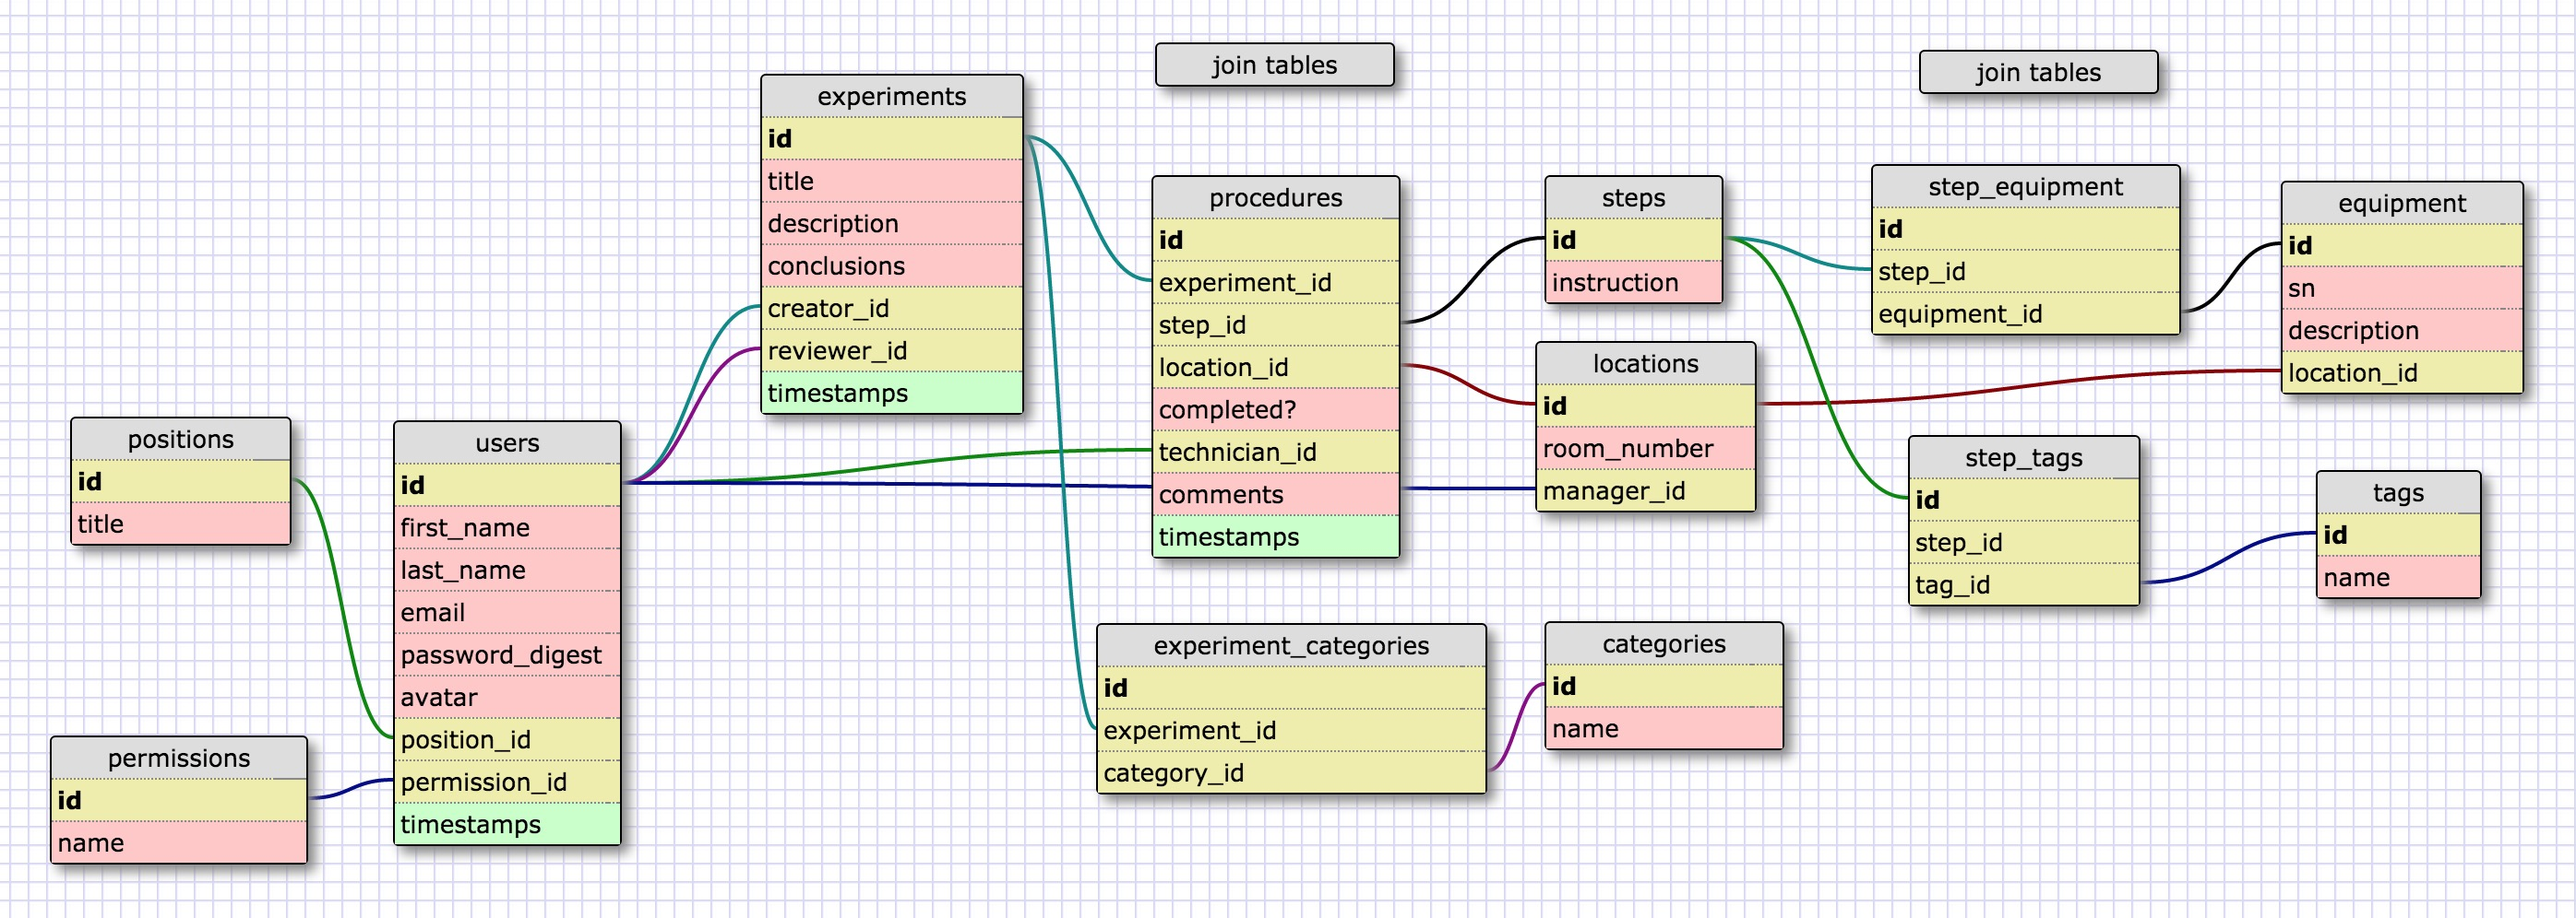
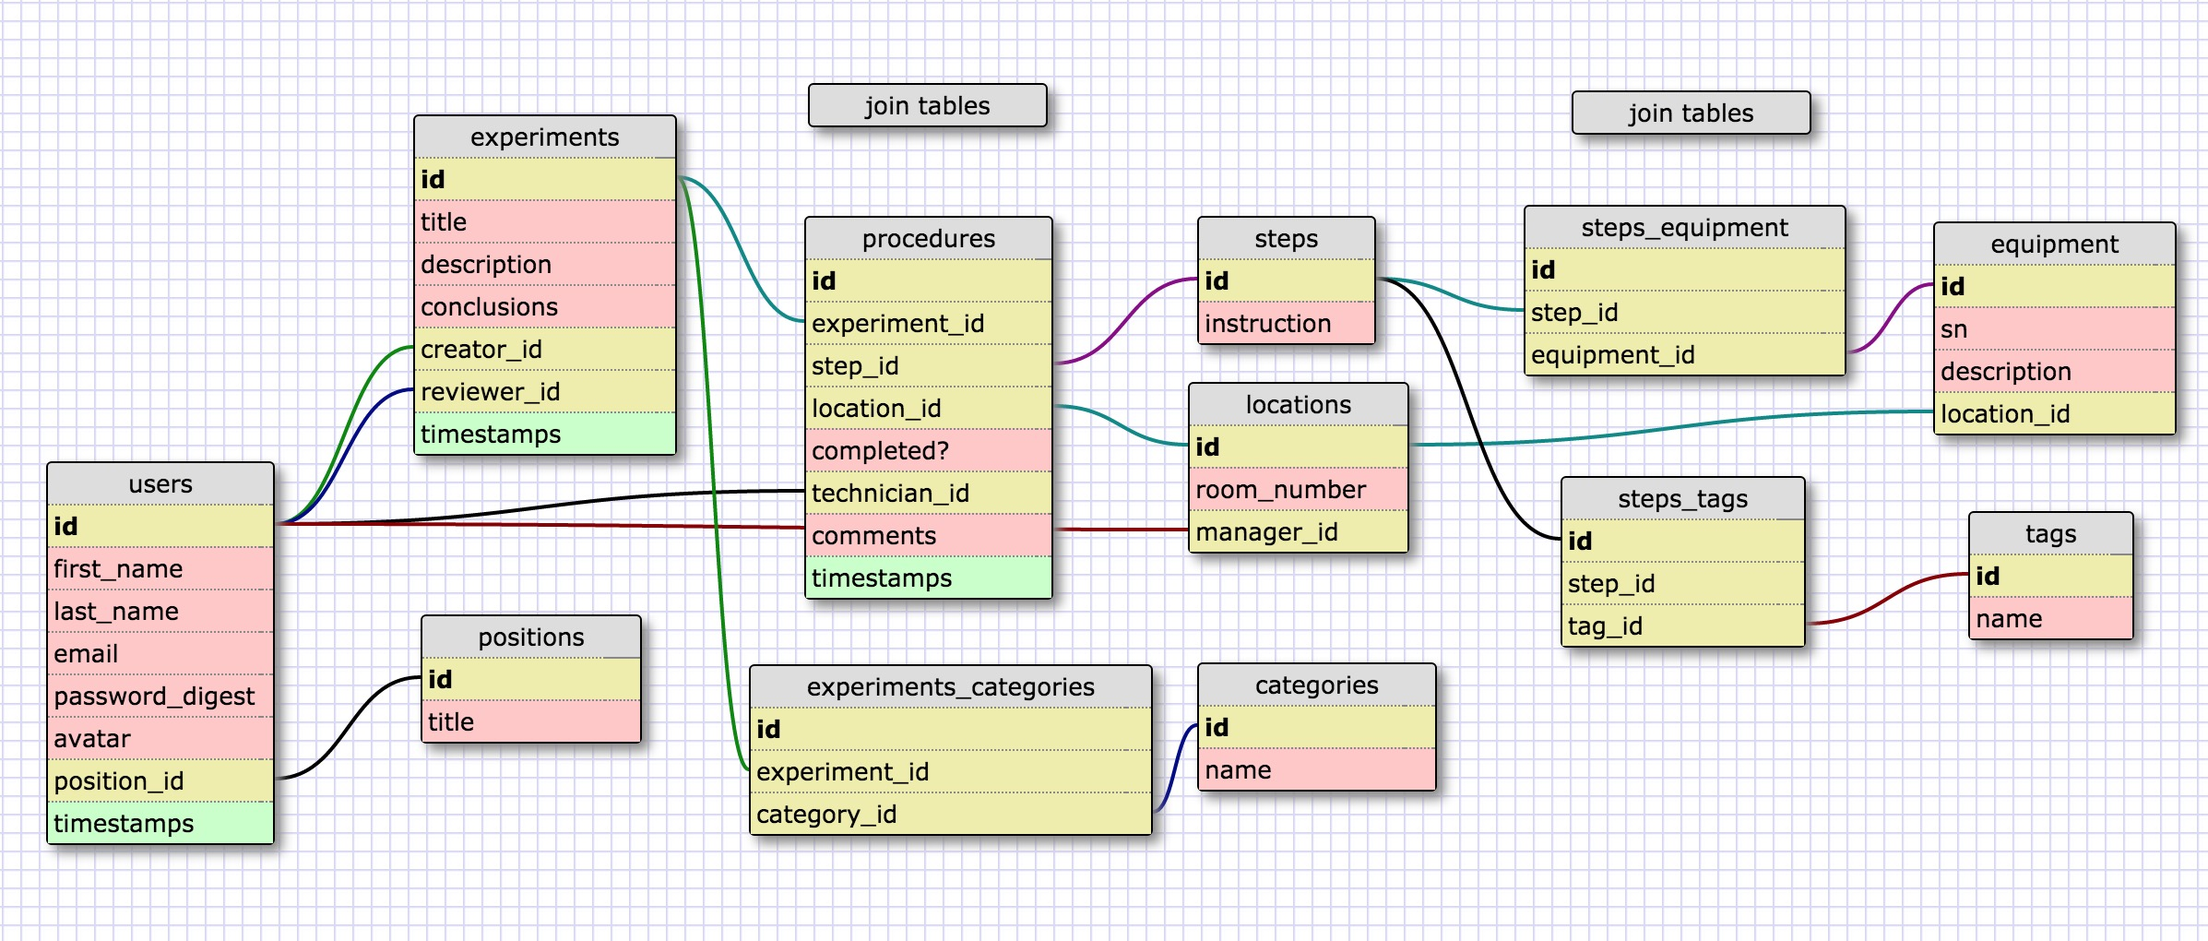
update readme and schema, working out app design

diff --git a/README.md b/README.md
@@ -1,6 +1,45 @@
 # diatomic
-A simple app in Rails and JavaScript for creating digital lab experiment notes.
+A simple app in Rails and JavaScript for creating digital lab notes.
+
+## App Design
 
 ### Schema
 ![Database schema](diatomic_schema.jpg)
 [Schema XML](db_schema.xml)
+
+### Models
+User
+  - has_many created_experiments
+  - has_many reviewed_experiments
+  - has_many completed_experiment_steps
+  - has_many rooms_managed
+
+Position
+
+Experiment
+  - has_many steps, through procedures
+  - has_many categories, or, has and belongs to many categories
+  - has_many locations, through procedures
+
+Procedure
+  - join table between Experiment and Step
+
+Step
+  - uses many equipment
+  - has_many tags, or, has and belongs to many tags
+
+Location
+  - has_many equipment
+
+Category
+  - has and belongs to many experiments
+
+Tag
+  - has and belongs to many steps
+
+Equipment
+  - belongs to location
+
+### Stretch Goals
+- Experiment Templates, with pre-defined sets of procedures that are created when a template is chosen (creates new experiment, creates new procedures with existing steps)
+- Permissions related to Position, with Admin all access, Primary Invesigator with experiment/reviewer access - not too sure about this
